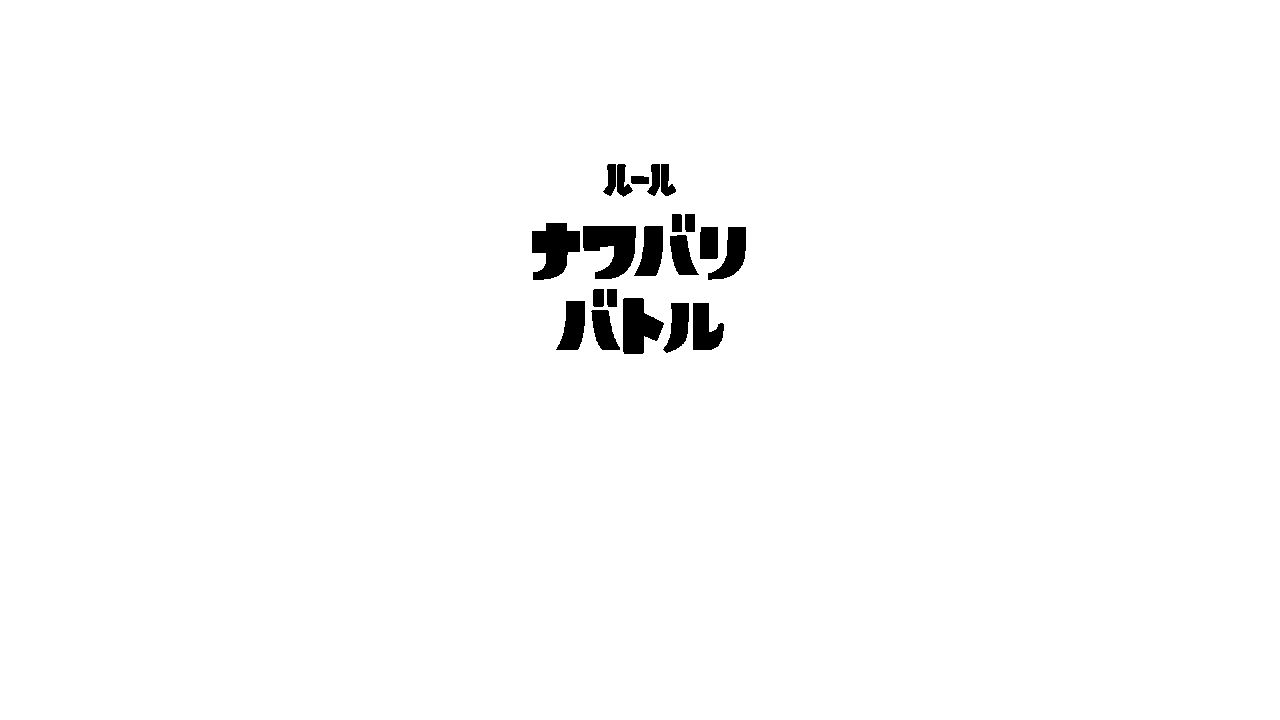
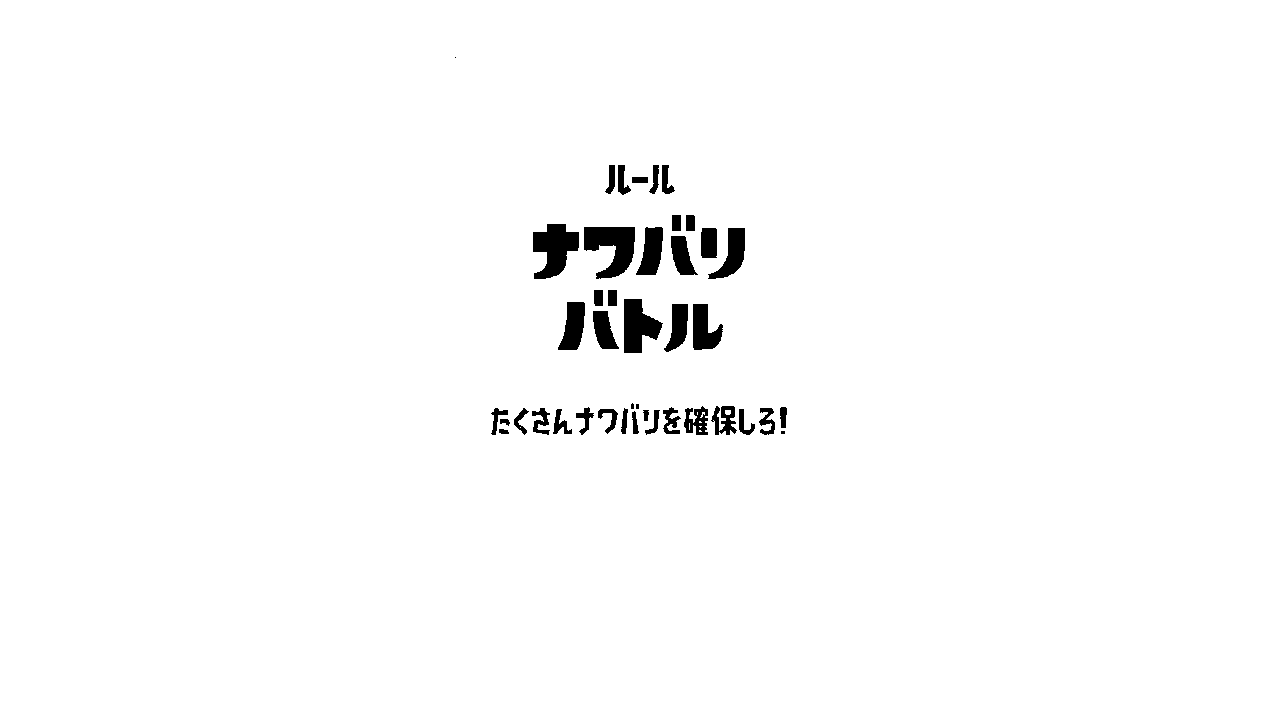
scenes/v2/game/start: WIP

diff --git a/ikalog/scenes/v2/game/start.py b/ikalog/scenes/v2/game/start.py
@@ -28,7 +28,7 @@ from ikalog.utils import *
 from ikalog.utils.ikamatcher2.matcher import MultiClassIkaMatcher2 as MultiClassIkaMatcher
 
 
-stages = [ 'aaa']
+stages = {'ama': True, 'battera': True, 'fujitsubo': True, 'gangaze': True, 'combu': True, 'tachiuo': True}
 rules = {'nawabari': True, }
 
 
@@ -68,7 +68,7 @@ class V2GameStart(StatefulScene):
         stage = None
         rule = None
 
-        best_stage = (None, None)# self.stage_matchers.match_best(frame)
+        best_stage = self.stage_matchers.match_best(frame)
         best_rule = self.rule_matchers.match_best(frame)
 
         if best_stage[1] is not None:
@@ -80,7 +80,6 @@ class V2GameStart(StatefulScene):
 
     def _state_default(self, context):
         frame = context['engine']['frame']
-
         if frame is None:
             return False
 
@@ -156,25 +155,24 @@ class V2GameStart(StatefulScene):
         self.election_period = 5 * 1000  # msec
 
         self._mask_rule = IkaMatcher(
-                600, 162, 80, 45,
+                600, 128, 77, 35,
                 img_file='v2_rule_nawabari.png',
                 bg_method=matcher.MM_NOT_WHITE(),
                 fg_method=matcher.MM_WHITE(),
-                threshold=0.8,
-                orig_threshold=0.4,
+                threshold=0.9,
+                orig_threshold=0.3,
                 label='rule',
                 debug=debug,
             )
 
         self.stage_matchers = MultiClassIkaMatcher()
         self.rule_matchers = MultiClassIkaMatcher()
-        if 0:
-            #for stage_id in stages.keys():
+        for stage_id in stages.keys():
             stage = IkaMatcher(
-                self.mapname_left, self.mapname_top, self.mapname_width, self.mapname_height,
+                1133, 655, 119, 34,
                 img_file='v2_stage_%s.png' % stage_id,
-                threshold=0.95,
-                orig_threshold=0.30,
+                threshold=0.85,
+                orig_threshold=0.15,
                 bg_method=matcher.MM_NOT_WHITE(),
                 fg_method=matcher.MM_WHITE(),
                 label='stage:%s' % stage_id,
@@ -188,13 +186,13 @@ class V2GameStart(StatefulScene):
             rule = IkaMatcher(
                 531, 224, 227, 58,
                 img_file='v2_rule_%s.png' % rule_id,
-                threshold=0.95,
-                orig_threshold=0.05,
+                threshold=0.70,
+                orig_threshold=0.10,
                 bg_method=matcher.MM_NOT_WHITE(),
                 fg_method=matcher.MM_WHITE(),
                 label='rule:%s' % rule_id,
                 call_plugins=self._call_plugins,
-                debug=False,
+                debug=debug,
             )
             setattr(rule, 'id_', rule_id)
             self.rule_matchers.add_mask(rule)
